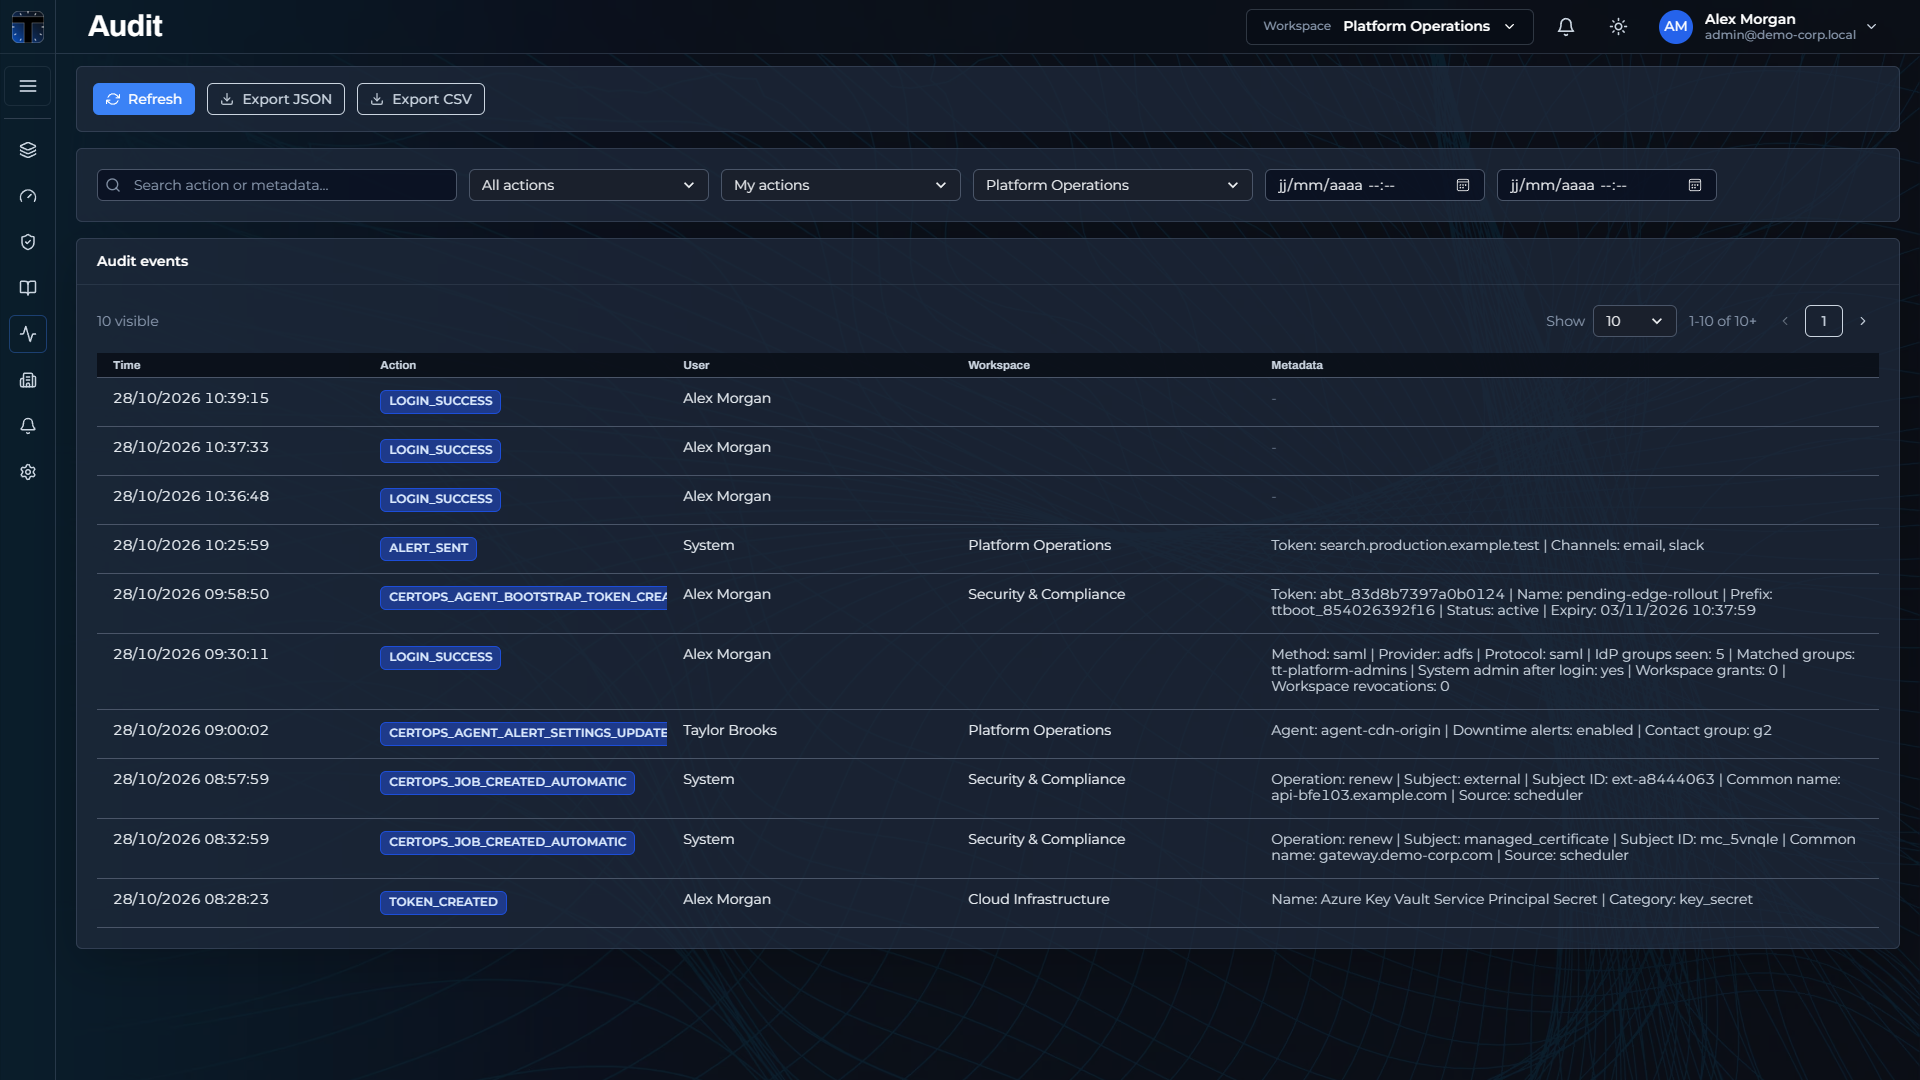
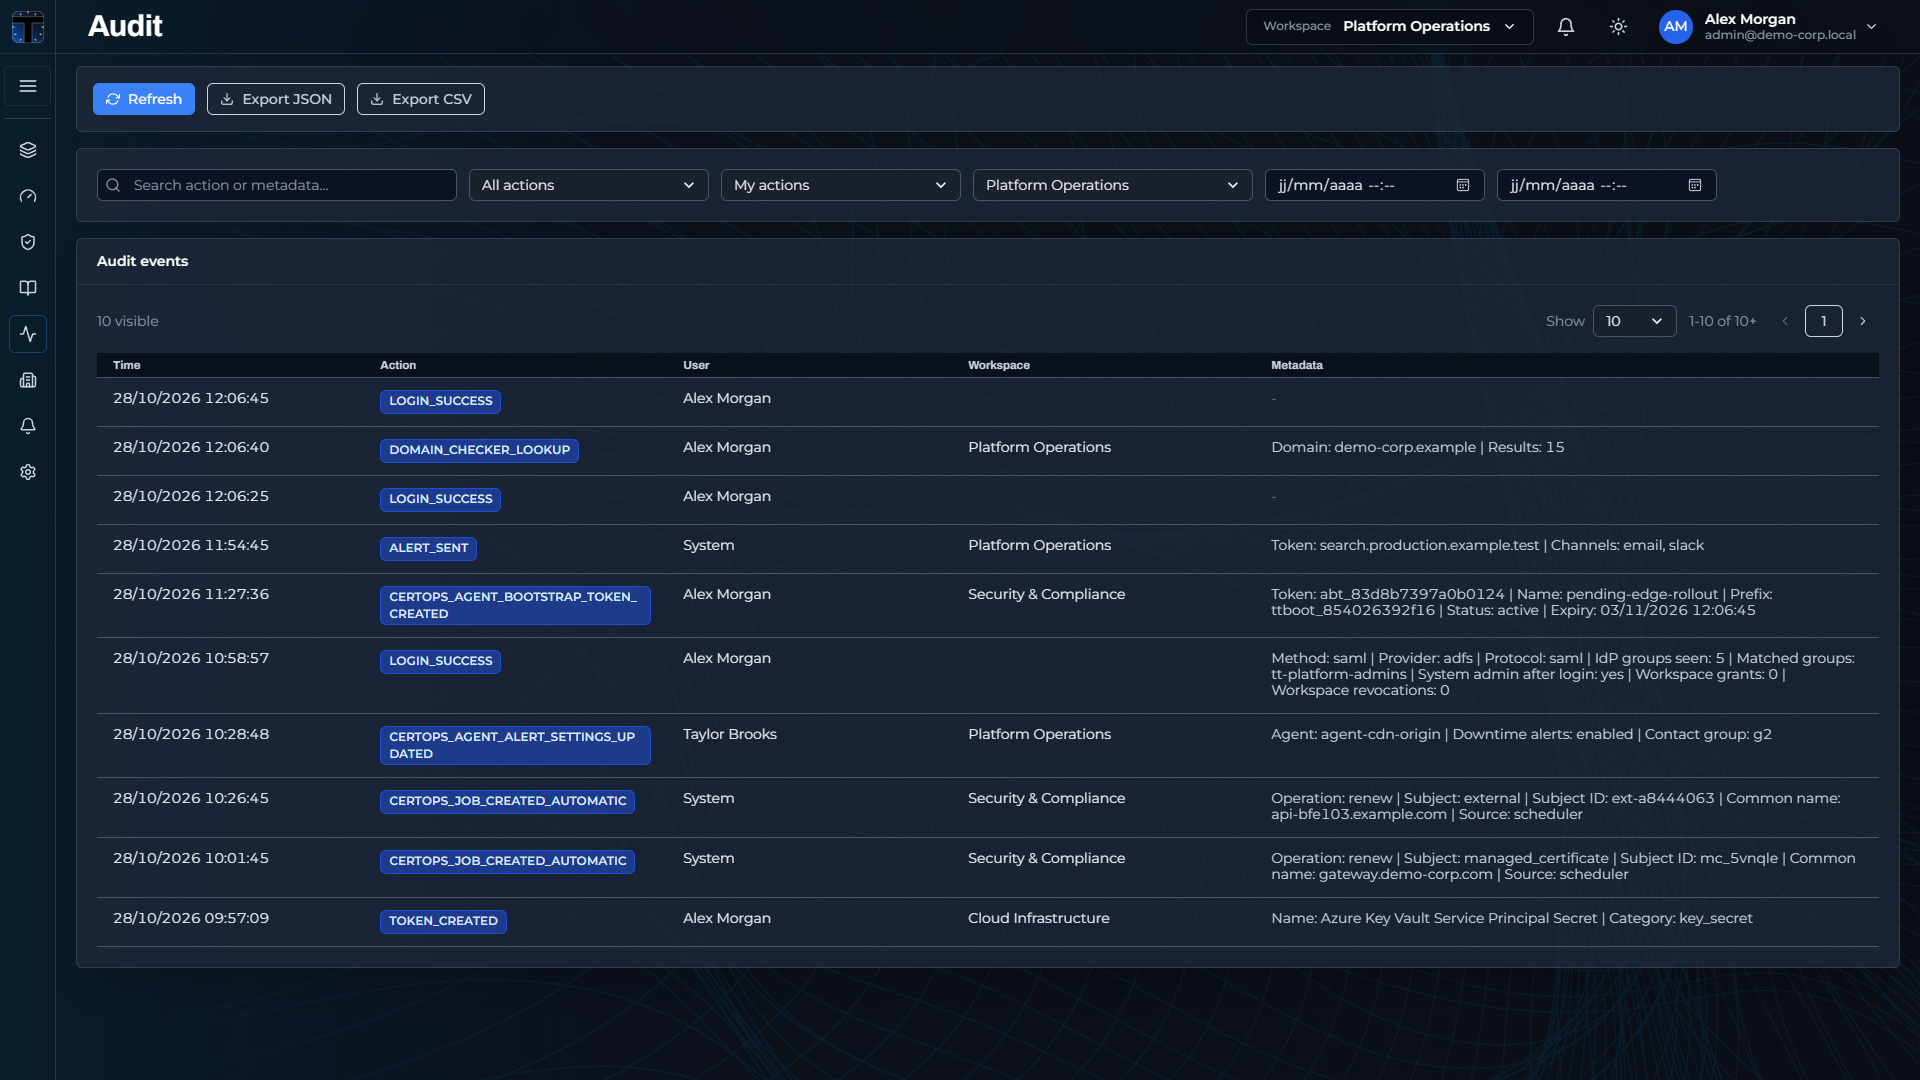
docs: capture dark workflow and expanded job timeline with shell output

diff --git a/docs/assets/MEDIA.md b/docs/assets/MEDIA.md
@@ -1,22 +1,26 @@
 # Product media
 
-Refreshed October 28, 2026 from Core 0.18.2 (`3c209435`). All images show the actual dashboard with illustrative in-memory sample data. Provider discovery, certificate data, endpoint monitors, imports, roles and notification settings are simulated. These assets do not establish live certificate renewal or alert delivery.
+Base captures were made October 28, 2026 from Core 0.18.2 (`3c209435`). The audit and expanded-job screenshots and dark workflow GIF were recaptured from the audit-layout fix (`9ffa8102`), based on released main. Per-asset source revisions are recorded in `media-manifest.json`. All images show the actual dashboard with illustrative in-memory sample data. Provider discovery, certificate data, endpoint monitors, imports, roles and notification settings are simulated. These assets do not establish live certificate renewal or alert delivery.
 
 ## Screenshots
 
-PNG screenshots are 1920 × 1080. Unsuffixed README images use dark mode; existing light and dark overview, preferences and system-settings variants are retained. Capture the control center, inventory, managed certificates, expanded renewal profiles, completed-job details, agent fleet, workspace alerting, preferences, system settings and audit pages. Wait for data, fonts and transient notifications to settle.
+PNG screenshots are 1920 × 1080, except the expanded job timeline and complete shell output at 1920 × 1440. Unsuffixed README images use dark mode; existing light and dark overview, preferences and system-settings variants are retained. Capture the control center, inventory, managed certificates, expanded renewal profiles, completed-job details, agent fleet, workspace alerting, preferences, system settings and audit pages. Wait for data, fonts and transient notifications to settle.
 
 ## Animated workflows
 
-The GIFs retain the original materials' light theme and demonstrate actions and outcomes. Both are 1600 × 900 at 12 fps, silent and looped, with a visible pointer following actual browser mouse events. Only initial loading is trimmed; there are no internal cuts or speed changes.
+The workflow GIF uses dark theme. The overview GIF and existing light-theme PNG variants are retained. Both GIFs demonstrate actions and outcomes. Both are 1600 × 900 at 12 fps, silent and looped, with a visible pointer following actual browser mouse events. Only initial loading is trimmed; there are no internal cuts or speed changes.
 
 - `dashboard-workflow.gif`: discover subdomains; select results and a section; import 14 SSL certificate tokens and create 14 endpoint monitors; scan Vault KV and PKI; select 15 items and assign a section; import them; filter the inventory to those 15 assets.
 - `dashboard-overview.gif`: edit and save asset notes; inspect the control center and audit events; change a sample member's workspace role; save the delivery window and inspect webhook channels; visit the certificate inventory, expanded renewal profiles and agent fleet.
 
 ## Reproduction and qualification
 
-Run the current dashboard against a fresh disposable sample API. Sign in to a sample workspace using an isolated Chromium-family browser at device scale 1. Capture PNGs at 1920 × 1080 and record GIF sources at 1600 × 900 in light mode. Perform the actions above through the product controls, preserve the final saved/imported result on screen, and encode with FFmpeg using a generated palette. Keep real credentials and customer records out of the fixture.
+Run the current dashboard against a fresh disposable sample API. Sign in to a sample workspace using an isolated Chromium-family browser at device scale 1. Capture PNGs at 1920 × 1080 and record GIF sources at 1600 × 900 (workflow: dark mode; overview: light mode). Perform the actions above through the product controls, preserve the final saved/imported result on screen, and encode with FFmpeg using a generated palette. Keep real credentials and customer records out of the fixture.
 
 The local sample API's older Vault scan summary was adapted to the current contract: counts are computed from the returned sample items, grouped by mount, rather than changing the UI. Two optional onboarding summary endpoints are absent from the sample API; initial capture waits for their notifications to dismiss naturally. No product controls, data labels or result messages are painted over or replaced. The pointer is a capture aid.
 
 Every screenshot was inspected in a contact sheet and principal views at native resolution. Both final GIFs were sampled across their full encoded duration, their opening and closing states inspected, and their complete streams decoded. Source-state checks confirm imported counts, the filtered inventory, saved asset notes, role-update feedback and delivery-window feedback. `media-manifest.json` records delivered dimensions, durations, sizes and SHA-256 hashes.
+
+## Audit-name regression
+
+Audit action names wrap in their available width without the extra tooltip wrapper that could overflow and be clipped by the table cell. `scripts/check-audit-action-layout.cjs` checks real glyph and clipping-ancestor bounds at 1920, 1280 and 390 pixels. Run it against the signed-in edition URLs using `AUDIT_URLS`; `AUDIT_SAMPLE_API` enables the disposable localhost sample login. The fix is verified in Core, the Cloud override, and the composed Enterprise dashboard, which inherits Core’s Audit page.

diff --git a/README.md b/README.md
@@ -81,8 +81,8 @@ An outbound-only agent renews, deploys, reloads, and verifies certificates on yo
       <br /><sub>Renewal profiles and issuer setup</sub>
     </td>
     <td align="center" width="33%" valign="top">
-      <img src="docs/assets/certops-jobs-timeline-evidence.png" alt="Certificate jobs with pending approvals and an expanded job details panel linking to the audit log" width="888" />
-      <br /><sub>Approval gates and job details linked to the audit log</sub>
+      <img src="docs/assets/certops-jobs-timeline-evidence.png" alt="Expanded renewal timeline with execution evidence and agent shell output" width="888" />
+      <br /><sub>Renewal timeline and agent shell output</sub>
     </td>
     <td align="center" width="33%" valign="top">
       <img src="docs/assets/certops-agents.png" alt="Agent fleet health and signing keys" width="888" />
